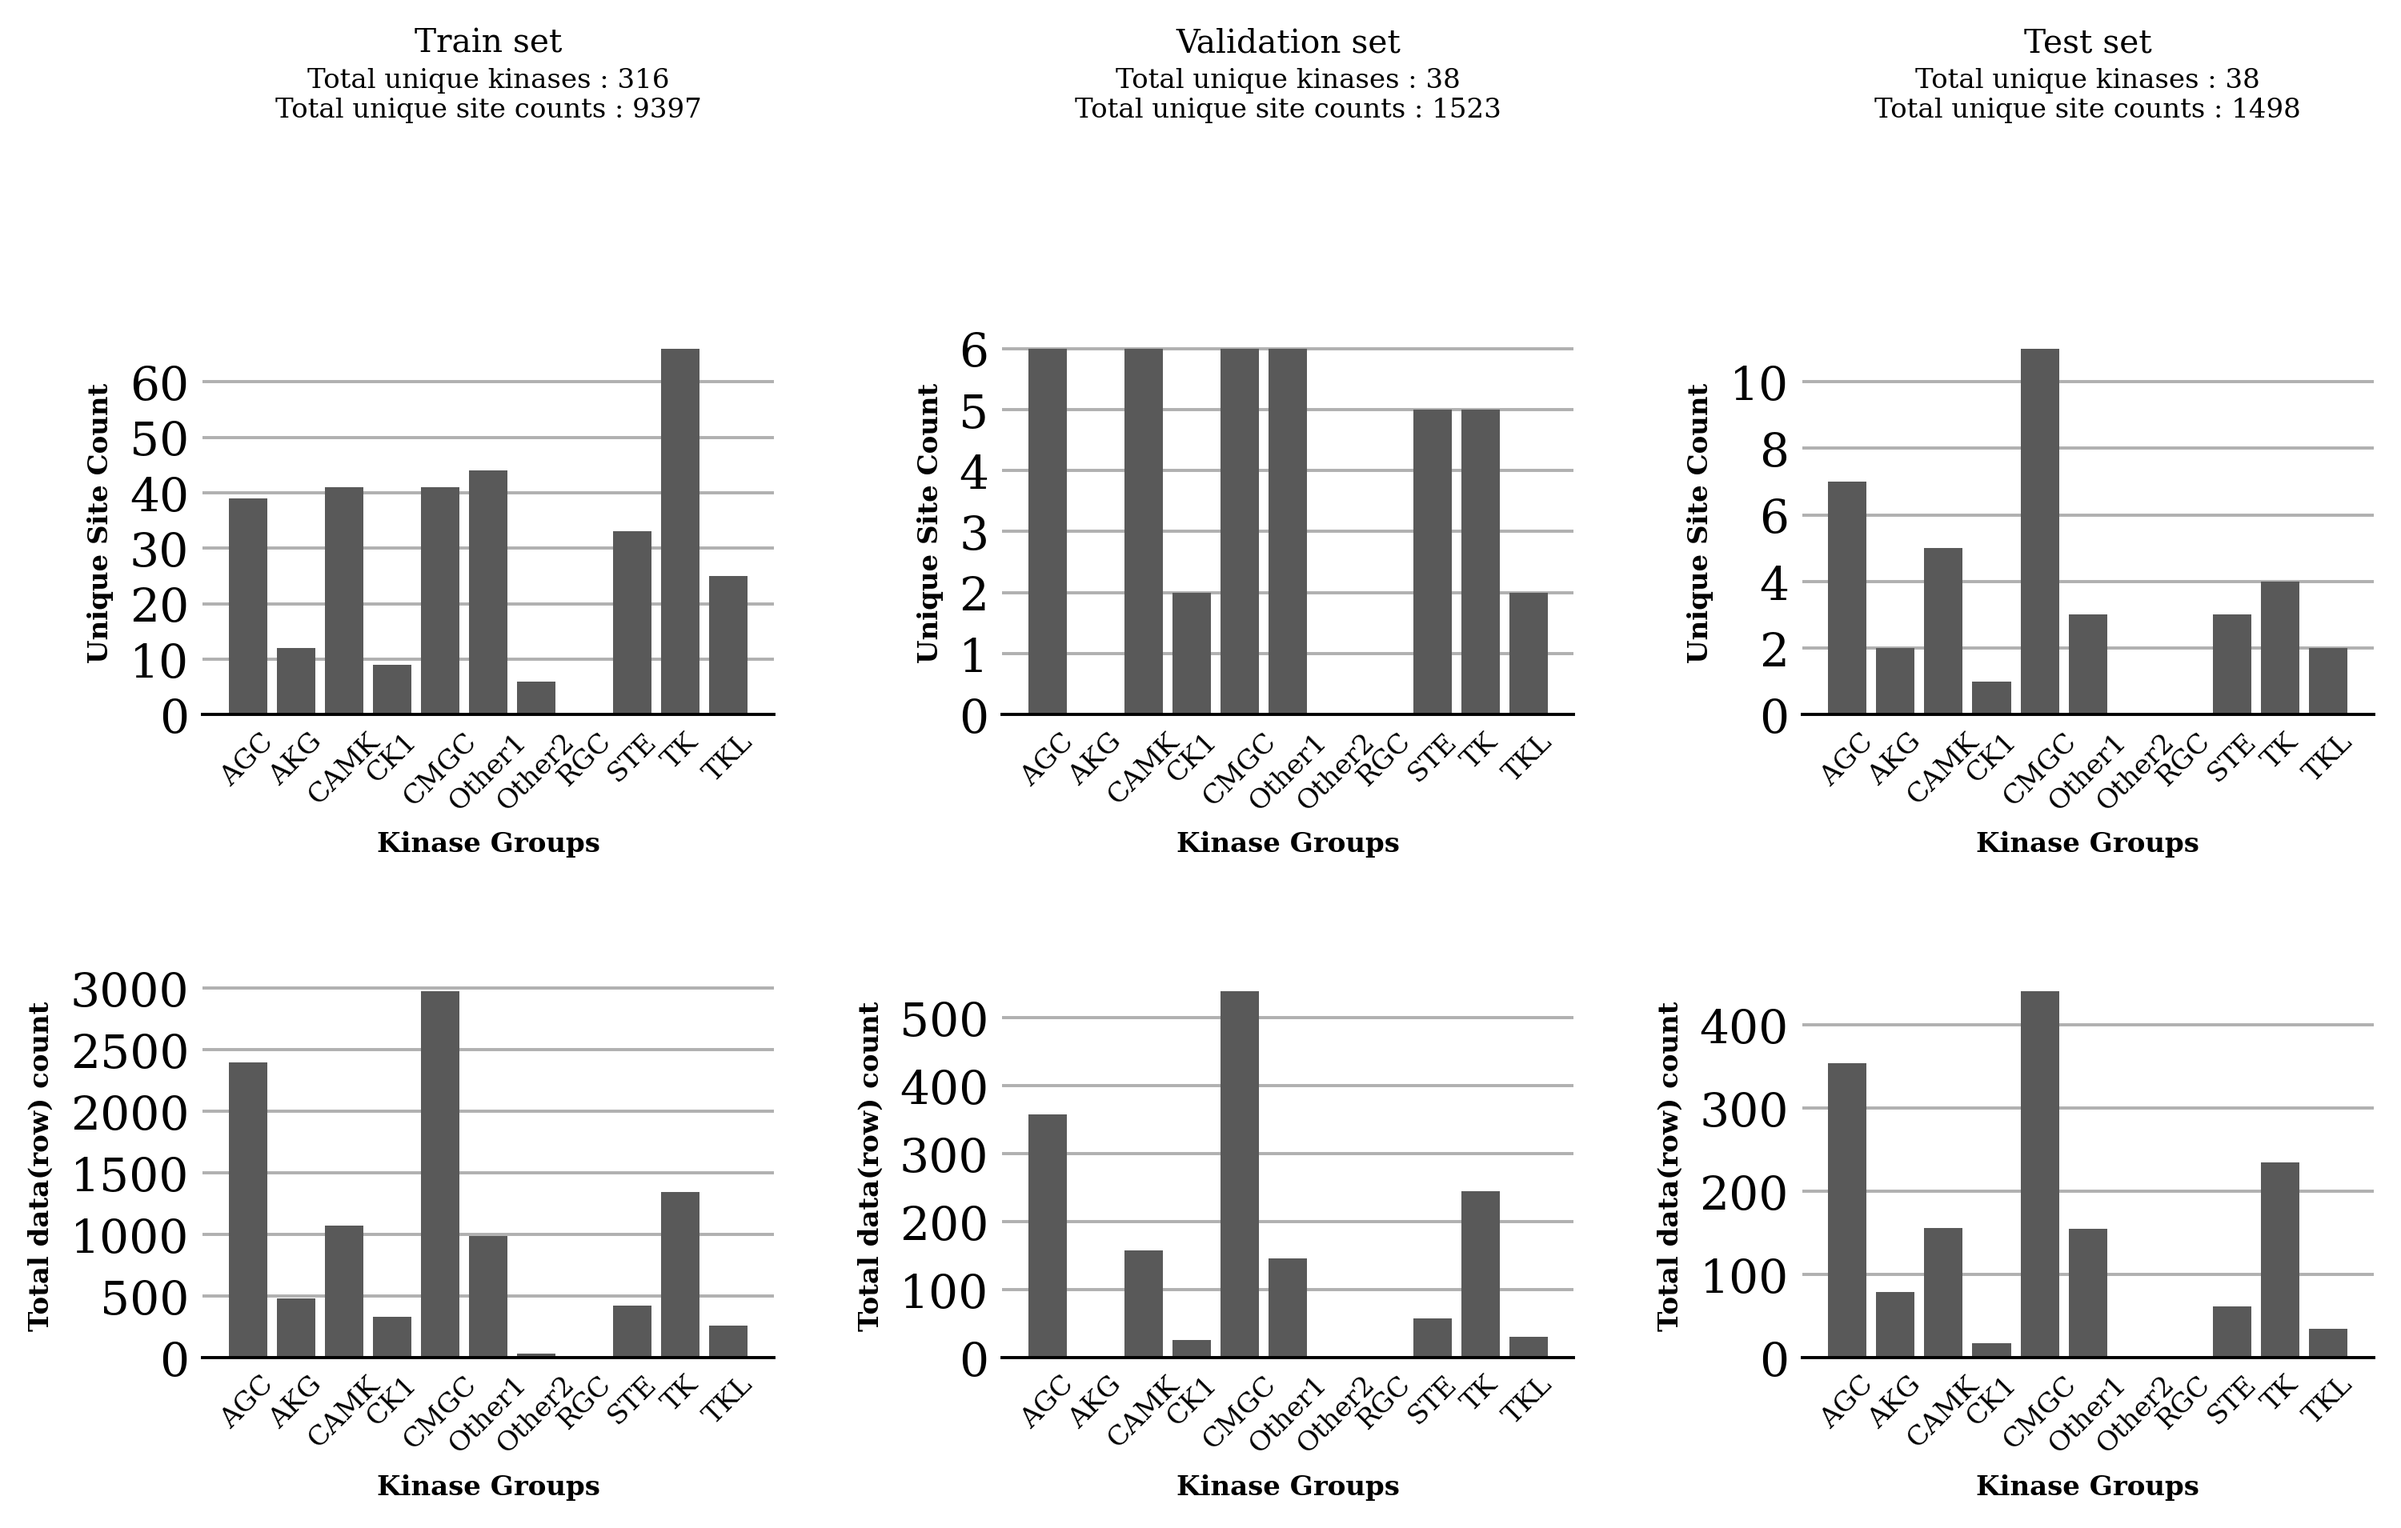
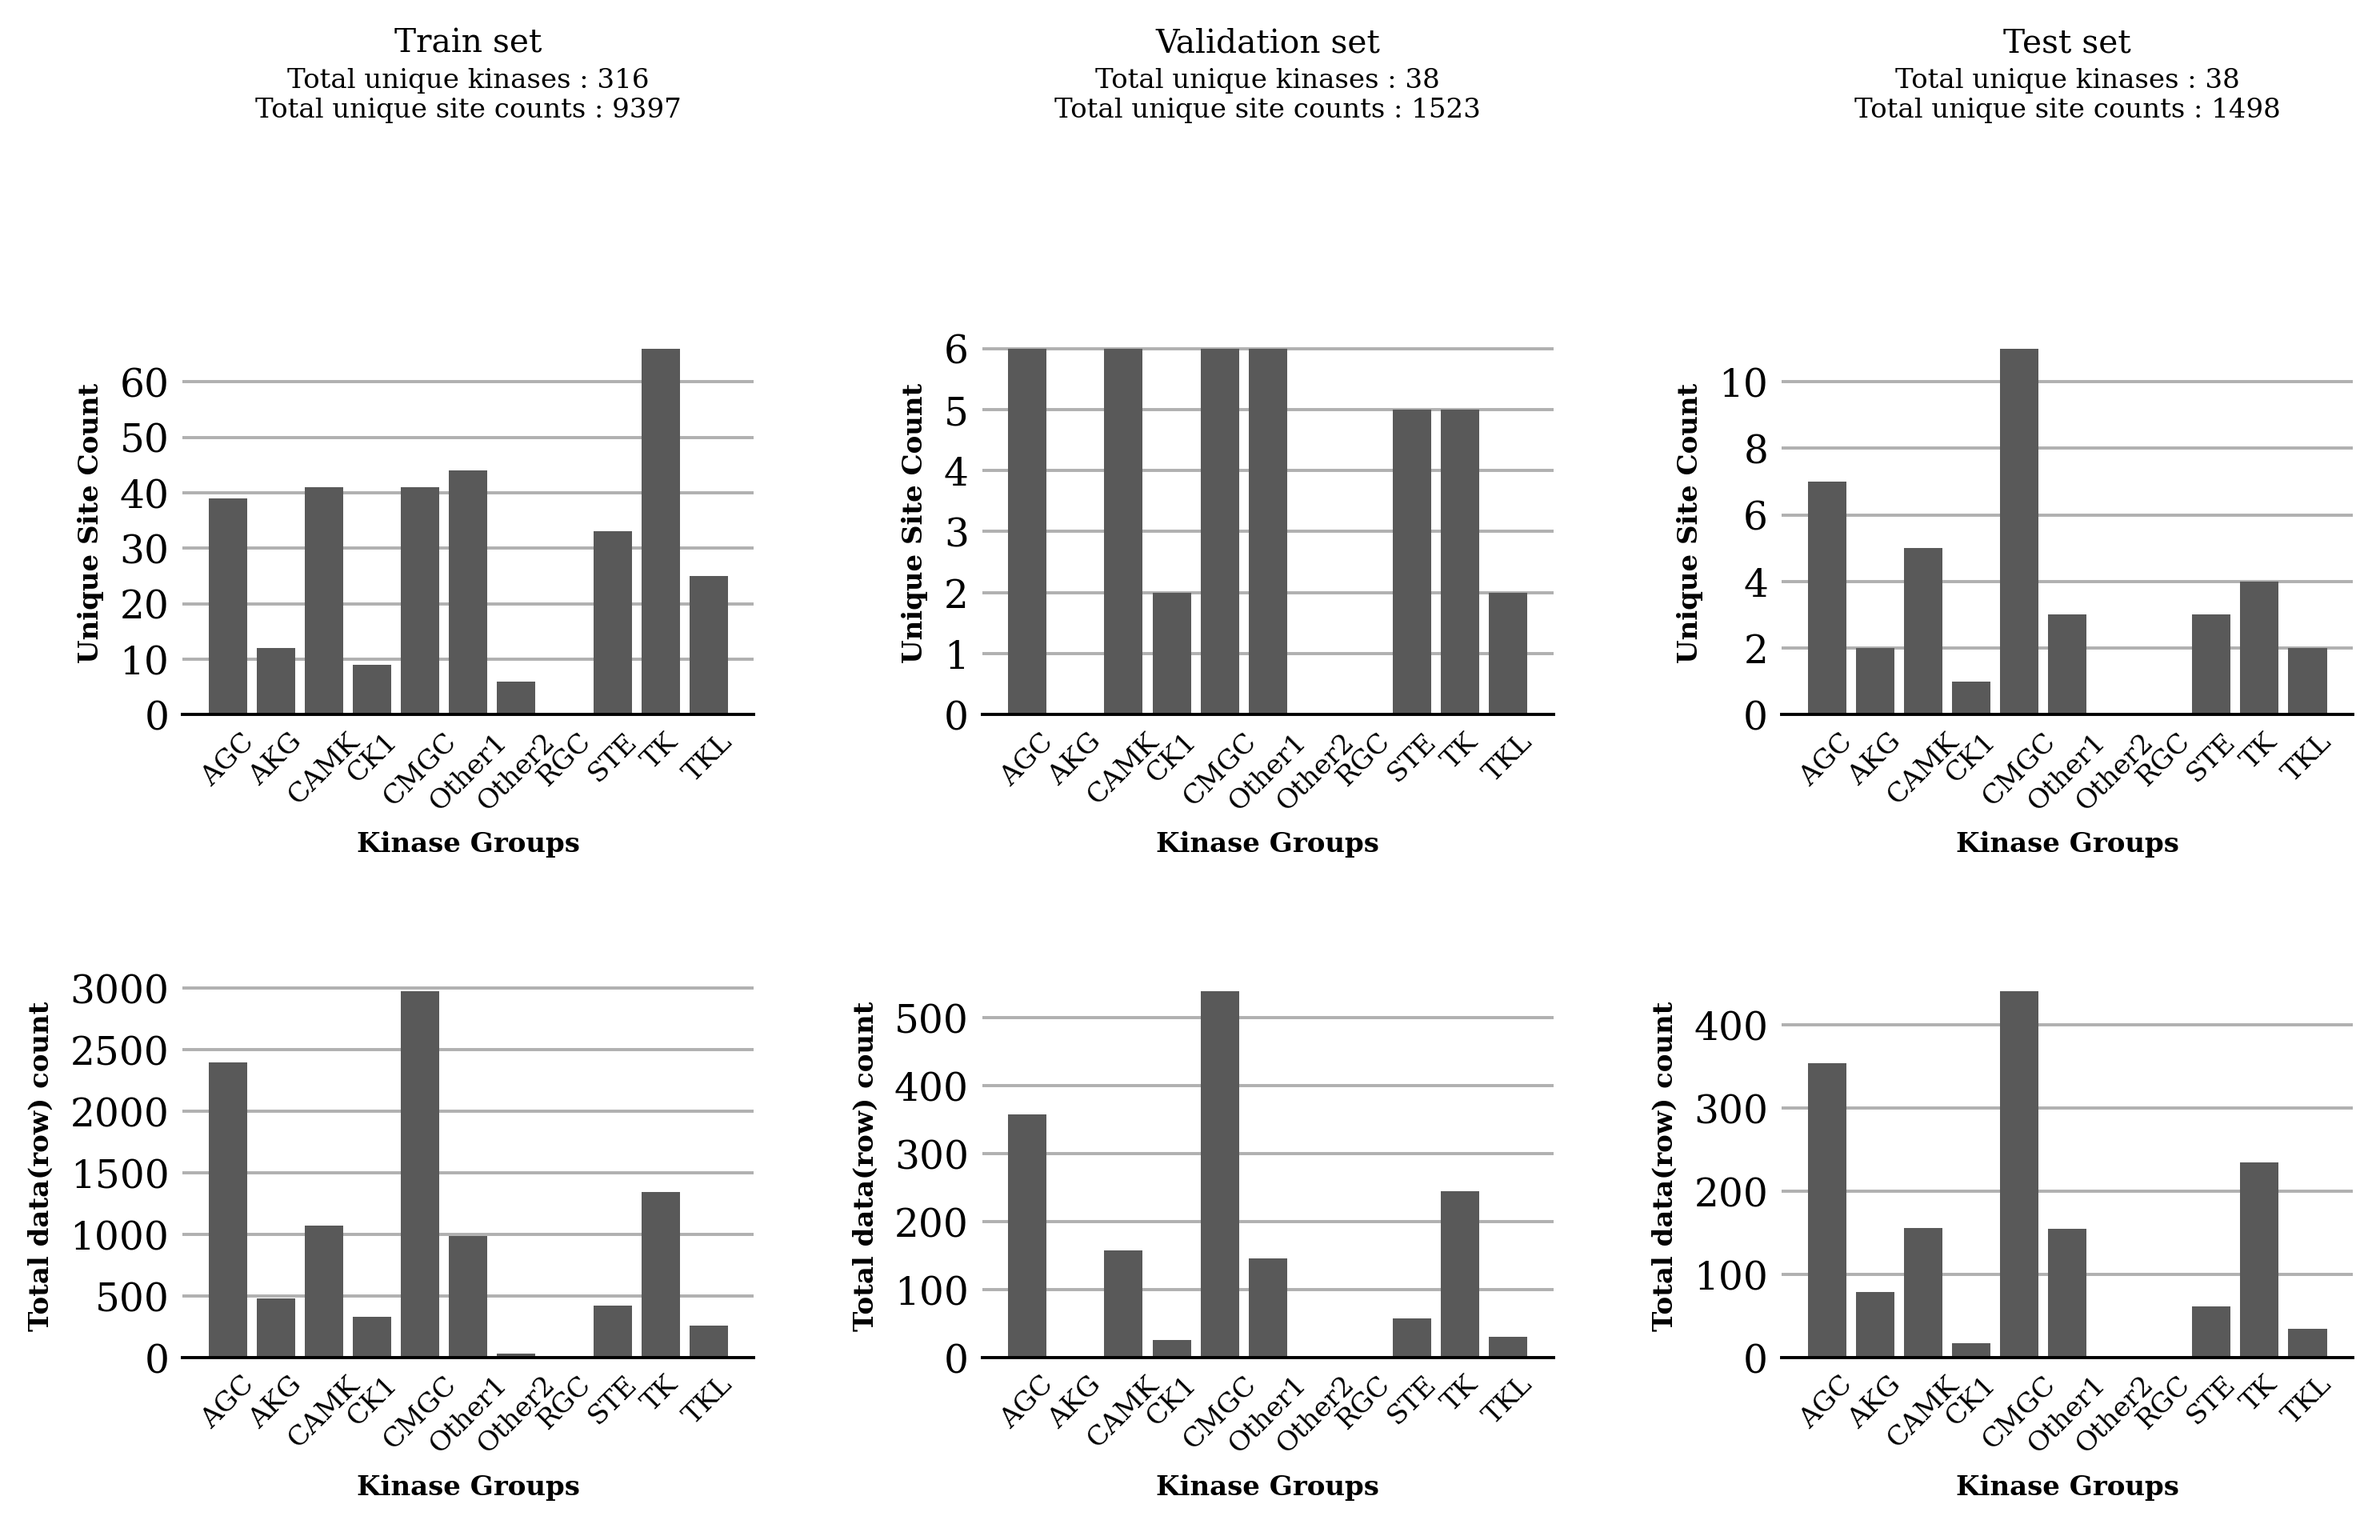
updated some figures

diff --git a/dataset_statistics.py b/dataset_statistics.py
@@ -988,7 +988,7 @@ def get_multilabel_rows_distribution():
     grayish_color = (0.35, 0.35, 0.35)  # RGB values range from 0 to 1
     font_size = 10
 
-    fig, axes = plt.subplots(nrows=1, ncols=3, figsize=(10, 6),
+    fig, axes = plt.subplots(nrows=1, ncols=3, figsize=(6, 6),
                              gridspec_kw={
                                  'width_ratios': [1, 1, 1],
                                  'wspace': 0.3,
@@ -1276,7 +1276,6 @@ def get_multilabel_rows_distribution_histogram():
     test_site_to_kinase_count = get_site_to_kinase_count(test_rows)
 
     largest_shared_site = max(max(train_site_to_kinase_count.values()), max(validation_site_to_kinase_count.values()), max(test_site_to_kinase_count.values()))
-    print(largest_shared_site)
     thresholds = create_thresholds(1, largest_shared_site+1, 1)
     bins_train = np.zeros(len(thresholds), dtype=int)
     for key, value in train_site_to_kinase_count.items():
@@ -1509,11 +1508,11 @@ FOR STATISTICS, RUN THE FOLLOWING LINES:
 # get_sites_distribution()
 # get_phosphosite_kinase_pair_distribution()
 
-# create_histogram_from_kinase_occurences()
-# get_multilabel_rows_distribution()
+create_histogram_from_kinase_occurences()
+get_multilabel_rows_distribution()
 
-# get_novel_site_vs_common_site_distribution_for_test()
-# get_novel_site_vs_common_site_distribution()
-# get_multilabel_rows_distribution_histogram()
+get_novel_site_vs_common_site_distribution_for_test()
+get_novel_site_vs_common_site_distribution()
+get_multilabel_rows_distribution_histogram()
 
-# get_kinase_group_distributions_with_site_count_information()
+get_kinase_group_distributions_with_site_count_information()
